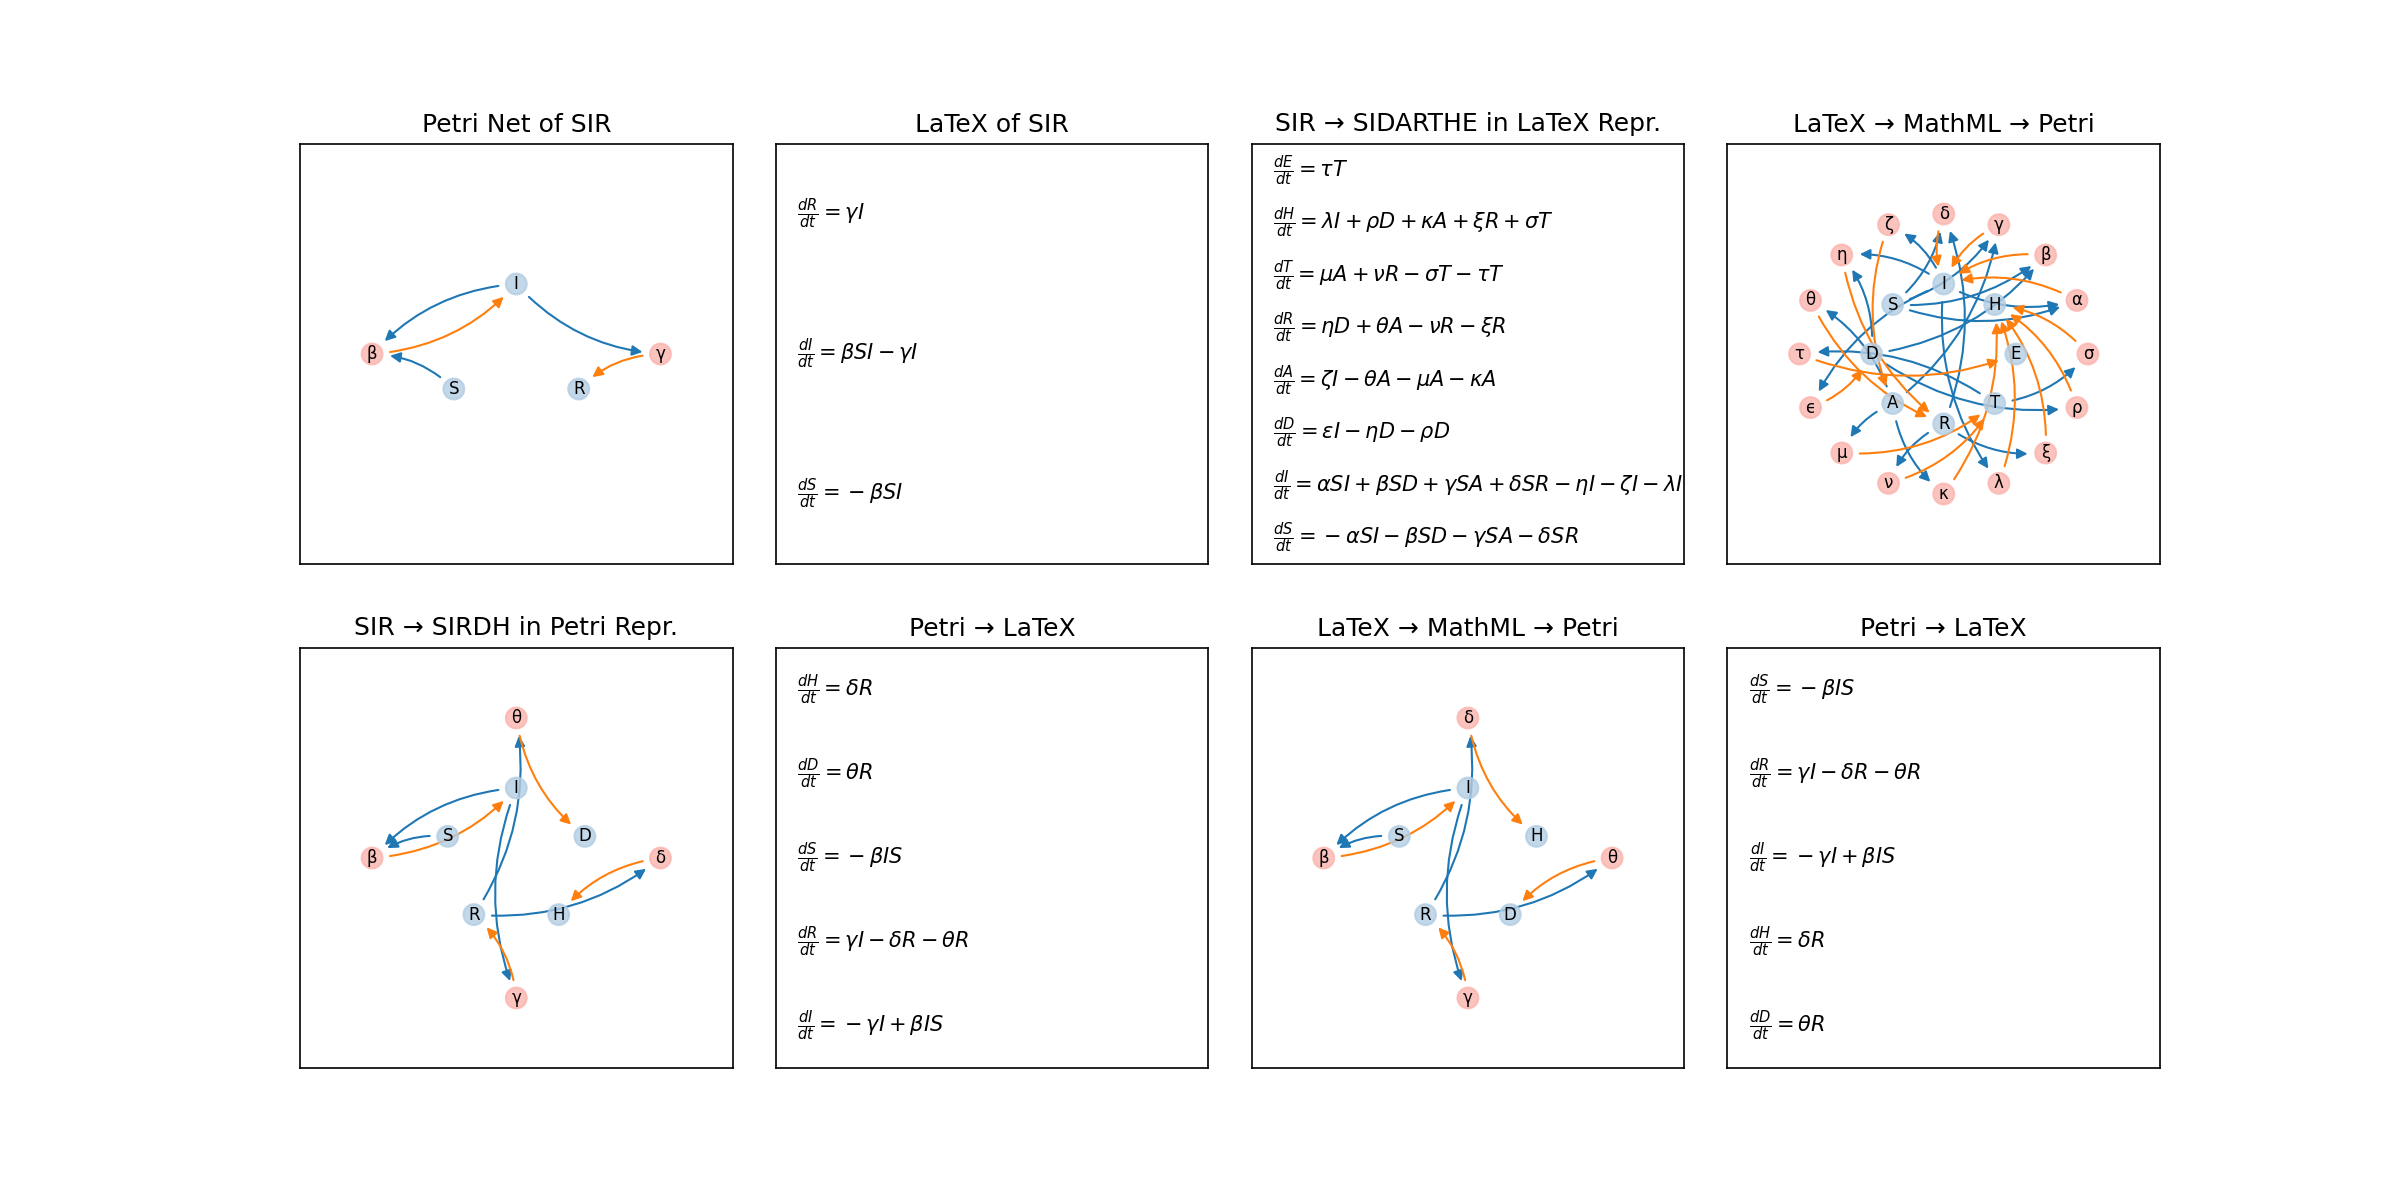
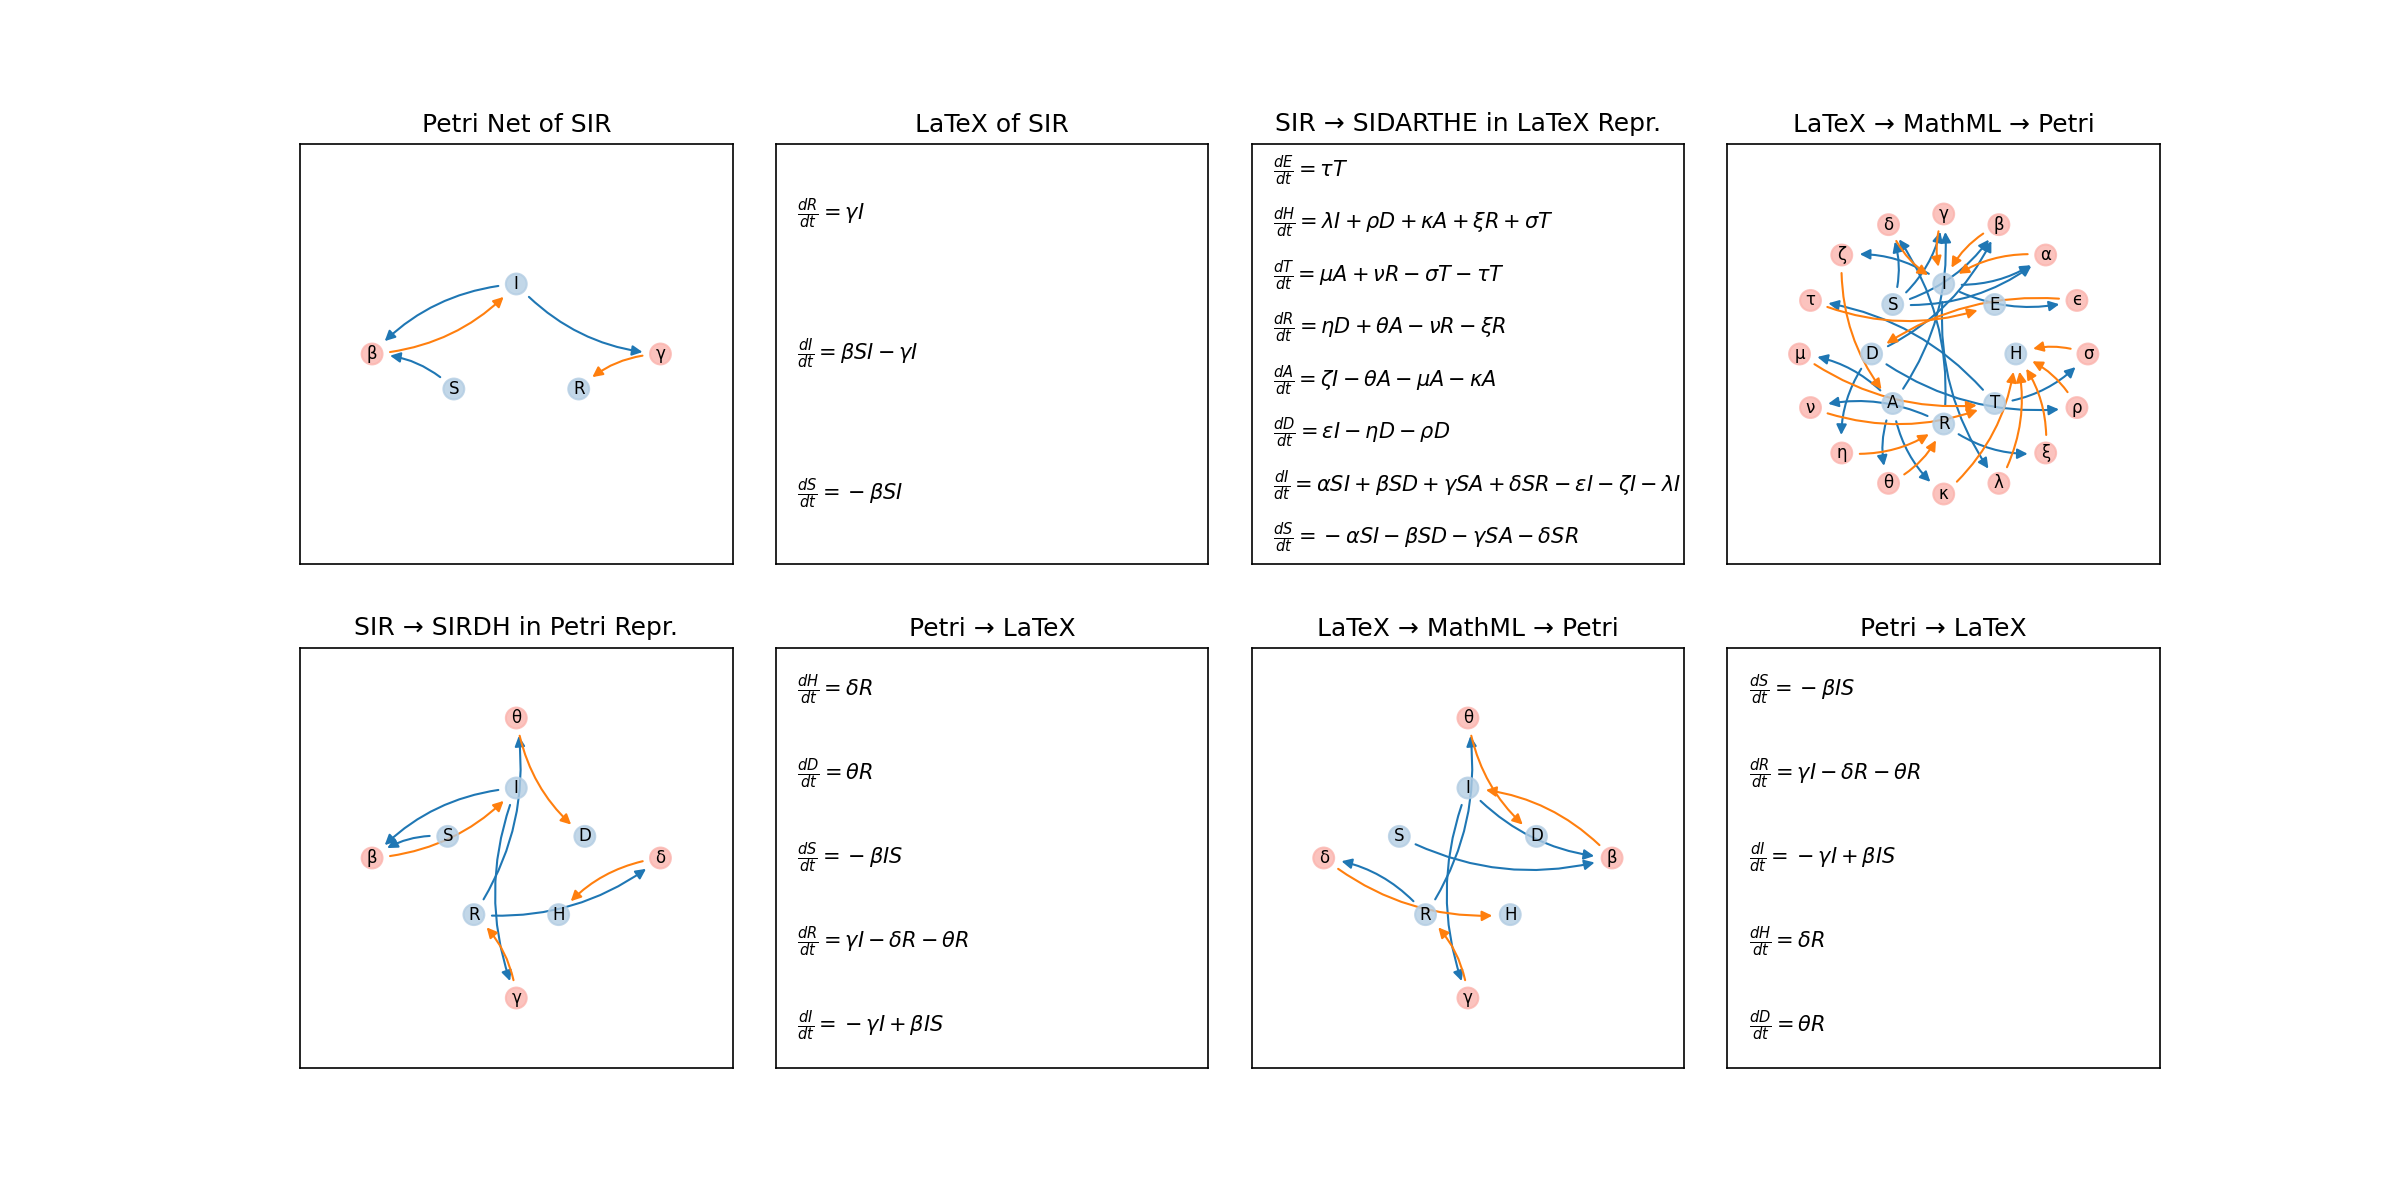
Fixed figure demo'ing test workflow

diff --git a/python_sandbox/notebooks/model_petri_equation_conversion.py b/python_sandbox/notebooks/model_petri_equation_conversion.py
@@ -260,7 +260,7 @@ models[model_name] = {}
 
 models[model_name]['latex'] = [
     r"\frac{d S}{d t} = - \alpha S I - \beta S D - \gamma S A - \delta S R",
-    r"\frac{d I}{d t} = \alpha S I + \beta S D + \gamma S A + \delta S R - \eta I - \zeta I - \lambda I",
+    r"\frac{d I}{d t} = \alpha S I + \beta S D + \gamma S A + \delta S R - \epsilon I - \zeta I - \lambda I",
     r"\frac{d D}{d t} = \epsilon I - \eta D - \rho D",
     r"\frac{d A}{d t} = \zeta I - \theta A - \mu A - \kappa A",
     r"\frac{d R}{d t} = \eta D + \theta A - \nu R - \xi R",
@@ -487,6 +487,53 @@ titles = [
 ]
 
 # %%
+# Workflow
+
+models['testflow'] = {}
+
+# SIR -> SIDARTHE via equations
+models['testflow'][0] = models['test'][1]
+models['testflow'][1] = models['test'][2]
+models['testflow'][2] = models['test'][3]
+
+# SIR -> SIRDH via Petri net
+models['testflow'][3] = models['test'][0]
+models['testflow'][4] = models['test'][4]
+models['testflow'][5] = models['test'][6]
+
+titles = [
+    'LaTeX of SIR',
+    'SIR → SIDARTHE in LaTeX Repr.',
+    'LaTeX → MathML → Petri',
+    'Petri Net of SIR',
+    'SIR → SIRDH in Petri Net Repr.',
+    'Petri → LaTeX',
+]
+
+plt.rcParams['text.usetex'] = False
+
+fig, axes = plt.subplots(2, 3, figsize = (12, 8))
+fig.subplots_adjust(wspace = 0.1, hspace = 0.3)
+
+for ax, (i, m), t in zip(fig.axes, models['testflow'].items(), titles):
+
+    __ = plt.setp(ax, title = f'{t}')
+    if isinstance(m, dict):
+        draw_graph(m, ax = ax, legend = False)
+    else:
+
+        ax.tick_params('both', left = False, bottom = False, labelleft = False, labelbottom = False)
+
+        # LaTeX
+        if 'frac{' in m[0]:
+            __ = [ax.text(0.05, j / len(m) + 0.5 / len(m), s = f'${k}$', va = 'center') for j, k in enumerate(m)]
+        else:
+            #__ = [ax.text(0.05, j / len(m) + 0.5 / len(m), s = f'{k}', va = 'center') for j, k in enumerate(m)]
+            __ = ax.text(0.5, 0.5, 'MathML Jibberish', va = 'center', ha = 'center')
+
+# fig.savefig('../figures/model_conversion_bidirectional-test.png', dpi = 150)
+
+# %%
 plt.rcParams['text.usetex'] = False
 
 fig, axes = plt.subplots(2, 4, figsize = (16, 8))
@@ -509,6 +556,4 @@ for ax, (i, m), t in zip(fig.axes, models['test'].items(), titles):
             #__ = [ax.text(0.05, j / len(m) + 0.5 / len(m), s = f'{k}', va = 'center') for j, k in enumerate(m)]
             __ = ax.text(0.5, 0.5, 'MathML Jibberish', va = 'center', ha = 'center')
 
-fig.savefig('../figures/model_conversion_bidirectional-test.png', dpi = 150)
-
-#%%
+fig.savefig('../figures/model_conversion_bidirectional-testflow.png', dpi = 150)
